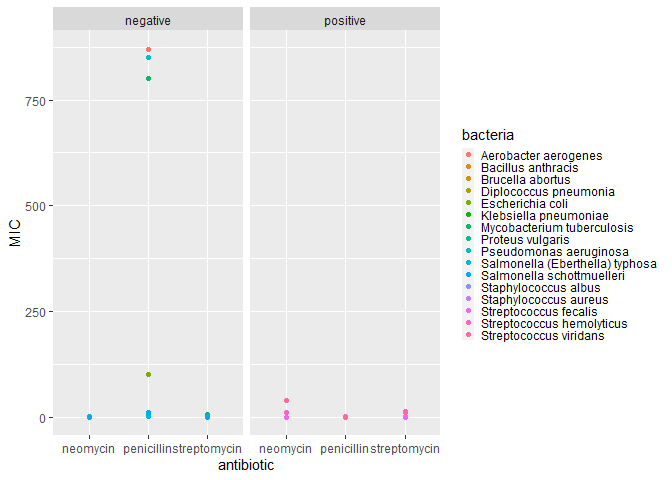
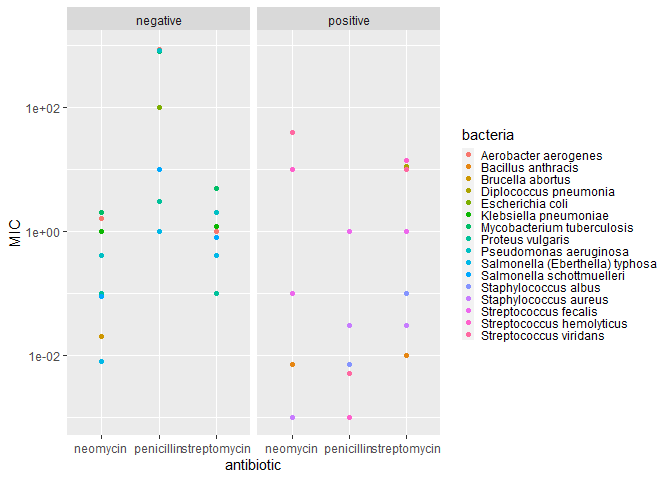
Add third graph take

diff --git a/challenges/c05-antibiotics-assignment.md b/challenges/c05-antibiotics-assignment.md
@@ -163,6 +163,7 @@ df_antibiotics %>%
   
   ggplot(aes(antibiotic, MIC)) +
   geom_point(aes(color = bacteria)) +
+  scale_y_log10() +
   facet_wrap(~ gram) +
   theme(legend.key.size = unit(0.3, 'cm'))
 ```
